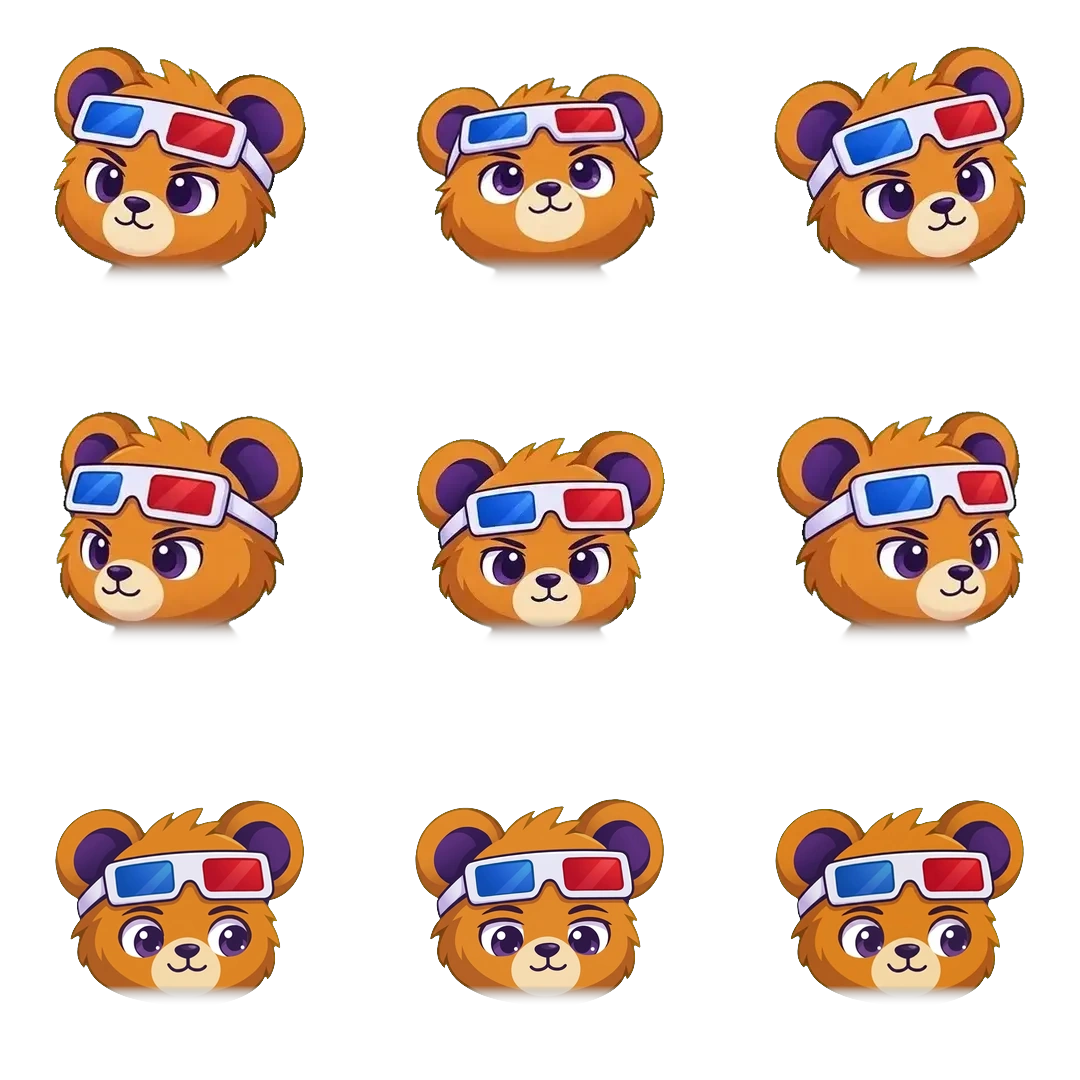
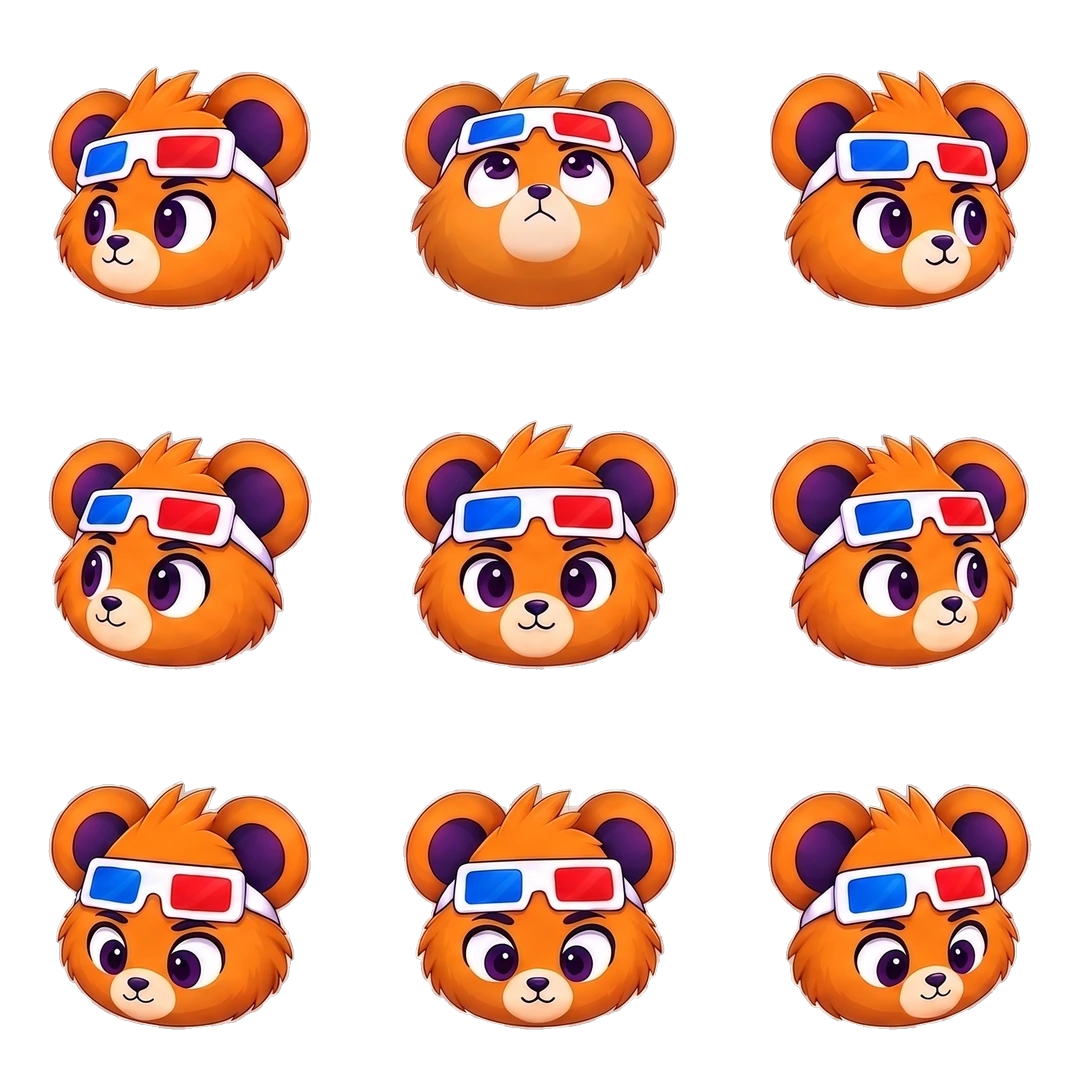
feat(mascot): integrate ready-made 3D glasses cub mascot and align direction tracking with page-mascot

diff --git a/frontend/next-storefront/src/components/Mascot.tsx b/frontend/next-storefront/src/components/Mascot.tsx
@@ -185,10 +185,12 @@ export function Mascot({
     };
 
     window.addEventListener("pointermove", onPointerMove, { passive: true });
+    window.addEventListener("scroll", aim, { passive: true });
     armIdleTimer();
 
     return () => {
       window.removeEventListener("pointermove", onPointerMove);
+      window.removeEventListener("scroll", aim);
       if (idleTimerRef.current) clearTimeout(idleTimerRef.current);
     };
   }, [armIdleTimer, size, wake]);

diff --git a/execution/build_mascot.py b/execution/build_mascot.py
@@ -1,0 +1,181 @@
+"""Turn the user's ready-made mascot.jpg (2528x1686) into the two 3x3 production WebP sheets.
+
+This script:
+1. Loads mascot.jpg from the repo root.
+2. Performs flood-fill background segmentation from borders to cleanly separate the
+   simulated checkerboard background without affecting internal white elements
+   (the 3D glasses white frame and eye whites).
+3. Eliminates background color bleed via signed distance transform and anti-aliasing.
+4. Drops stray cross-cell specks while strictly preserving floating symbols
+   (heart, stars, zzz).
+5. Normalizes head scale and chin-anchor positions across all 18 cells on a 360x360
+   tile canvas (1080x1080 sheet).
+6. Atomically saves:
+   - frontend/next-storefront/public/mascots/cinecub-directions.webp
+   - frontend/next-storefront/public/mascots/cinecub-reactions.webp
+"""
+
+import os
+import sys
+import tempfile
+import numpy as np
+from PIL import Image
+from scipy import ndimage
+
+ROOT = os.path.abspath(os.path.join(os.path.dirname(__file__), ".."))
+SOURCE_IMAGE = os.path.join(ROOT, "mascot.jpg")
+DEST_DIR = os.path.join(ROOT, "frontend", "next-storefront", "public", "mascots")
+os.makedirs(DEST_DIR, exist_ok=True)
+
+TILE = 360
+TARGET_WIDTH = 275.0
+SCALE = TARGET_WIDTH / 405.0  # ~0.679
+TARGET_BOTTOM = 310
+
+X_SPLITS = [0, 432, 848, 1264, 1701, 2108, 2528]
+Y_SPLITS = [0, 644, 1043, 1686]
+
+
+def build():
+    if not os.path.exists(SOURCE_IMAGE):
+        print(f"Error: {SOURCE_IMAGE} not found!", file=sys.stderr)
+        sys.exit(1)
+
+    print(f"Loading {SOURCE_IMAGE}...")
+    img = Image.open(SOURCE_IMAGE)
+    arr = np.array(img).astype(np.float32)
+
+    # 1. Flood-fill background detection
+    chroma = arr.max(axis=2) - arr.min(axis=2)
+    brightness = arr.mean(axis=2)
+    is_bg_candidate = (brightness > 180) & (chroma < 14)
+
+    labels, count = ndimage.label(is_bg_candidate)
+    border_labels = set(
+        np.unique(
+            np.concatenate(
+                [labels[0, :], labels[-1, :], labels[:, 0], labels[:, -1]]
+            )
+        )
+    ) - {0}
+    bg_mask = np.isin(labels, list(border_labels))
+
+    # 2. Signed distance transform for antialiasing & defringing
+    dist_out = ndimage.distance_transform_edt(bg_mask)
+    dist_in = ndimage.distance_transform_edt(~bg_mask)
+    signed_dist = dist_in - dist_out
+    smooth_alpha = np.clip((signed_dist - 0.7) / 1.0, 0.0, 1.0) * 255.0
+
+    rgba = np.dstack([arr.astype(np.uint8), smooth_alpha.astype(np.uint8)])
+    full_im = Image.fromarray(rgba, "RGBA")
+
+    # 3. Extract 9 Directions (Columns 0, 1, 2)
+    print("Processing 9 direction cells...")
+    dir_tiles = []
+    for r in range(3):
+        for c in range(3):
+            x0, x1 = X_SPLITS[c], X_SPLITS[c + 1]
+            y0, y1 = Y_SPLITS[r], Y_SPLITS[r + 1]
+            cell = full_im.crop((x0, y0, x1, y1))
+
+            # Filter out tiny stray specks < 1000 px
+            a = np.array(cell)[..., 3]
+            opaque = a > 50
+            lbl, cnt = ndimage.label(opaque)
+            if cnt > 1:
+                sizes = ndimage.sum(opaque, lbl, range(1, cnt + 1))
+                main_label = int(np.argmax(sizes)) + 1
+                keep = [main_label]
+                for idx, s in enumerate(sizes):
+                    if s > 1000:
+                        keep.append(idx + 1)
+                cell_arr = np.array(cell)
+                cell_arr[~np.isin(lbl, keep), 3] = 0
+                cell = Image.fromarray(cell_arr, "RGBA")
+                a = cell_arr[..., 3]
+
+            ys, xs = np.where(a > 50)
+            content = cell.crop((xs.min(), ys.min(), xs.max() + 1, ys.max() + 1))
+
+            sw = int(round(content.width * SCALE))
+            sh = int(round(content.height * SCALE))
+            resized = content.resize((sw, sh), Image.LANCZOS)
+
+            tile_canvas = Image.new("RGBA", (TILE, TILE), (0, 0, 0, 0))
+            paste_x = int(round(TILE / 2.0 - sw / 2.0))
+            paste_y = int(round(TARGET_BOTTOM - sh))
+            tile_canvas.paste(resized, (paste_x, paste_y), resized)
+            dir_tiles.append(tile_canvas)
+
+    # 4. Extract 9 Reactions (Columns 3, 4, 5)
+    print("Processing 9 reaction cells...")
+    react_tiles = []
+    for r in range(3):
+        for c in range(3, 6):
+            x0, x1 = X_SPLITS[c], X_SPLITS[c + 1]
+            y0, y1 = Y_SPLITS[r], Y_SPLITS[r + 1]
+            cell = full_im.crop((x0, y0, x1, y1))
+
+            a = np.array(cell)[..., 3]
+            opaque = a > 50
+            lbl, cnt = ndimage.label(opaque)
+            if cnt > 1:
+                sizes = ndimage.sum(opaque, lbl, range(1, cnt + 1))
+                main_label = int(np.argmax(sizes)) + 1
+                keep = [main_label]
+                for idx, s in enumerate(sizes):
+                    if s > 800:  # Preserves heart, stars, and zzz
+                        keep.append(idx + 1)
+                cell_arr = np.array(cell)
+                cell_arr[~np.isin(lbl, keep), 3] = 0
+                cell = Image.fromarray(cell_arr, "RGBA")
+                a = cell_arr[..., 3]
+
+            lbl_clean, cnt_clean = ndimage.label(a > 50)
+            sizes_clean = ndimage.sum(a > 50, lbl_clean, range(1, cnt_clean + 1))
+            main_idx = int(np.argmax(sizes_clean)) + 1
+            ys_main, xs_main = np.where(lbl_clean == main_idx)
+
+            ys, xs = np.where(a > 50)
+            content = cell.crop((xs.min(), ys.min(), xs.max() + 1, ys.max() + 1))
+
+            sw = int(round(content.width * SCALE))
+            sh = int(round(content.height * SCALE))
+            resized = content.resize((sw, sh), Image.LANCZOS)
+
+            tile_canvas = Image.new("RGBA", (TILE, TILE), (0, 0, 0, 0))
+            main_cx_in_content = (xs_main.min() + xs_main.max()) / 2.0 - xs.min()
+            paste_x = int(round(TILE / 2.0 - main_cx_in_content * SCALE))
+            chin_in_content = ys_main.max() - ys.min()
+            paste_y = int(round(TARGET_BOTTOM - chin_in_content * SCALE))
+
+            tile_canvas.paste(resized, (paste_x, paste_y), resized)
+            react_tiles.append(tile_canvas)
+
+    # 5. Assemble Sheets and Save
+    dir_sheet = Image.new("RGBA", (TILE * 3, TILE * 3), (0, 0, 0, 0))
+    for i, t in enumerate(dir_tiles):
+        dir_sheet.paste(t, ((i % 3) * TILE, (i // 3) * TILE))
+
+    react_sheet = Image.new("RGBA", (TILE * 3, TILE * 3), (0, 0, 0, 0))
+    for i, t in enumerate(react_tiles):
+        react_sheet.paste(t, ((i % 3) * TILE, (i // 3) * TILE))
+
+    staged = [
+        (dir_sheet, os.path.join(DEST_DIR, "cinecub-directions.webp")),
+        (react_sheet, os.path.join(DEST_DIR, "cinecub-reactions.webp")),
+    ]
+
+    for sheet, final_path in staged:
+        fd, tmp = tempfile.mkstemp(suffix=".webp", dir=DEST_DIR)
+        os.close(fd)
+        sheet.save(tmp, "WEBP", quality=92, method=6)
+        os.chmod(tmp, 0o644)
+        os.replace(tmp, final_path)
+        print(f"Generated {final_path} ({os.path.getsize(final_path)} bytes)")
+
+    print("Mascot sprite sheets successfully built and deployed!")
+
+
+if __name__ == "__main__":
+    build()
